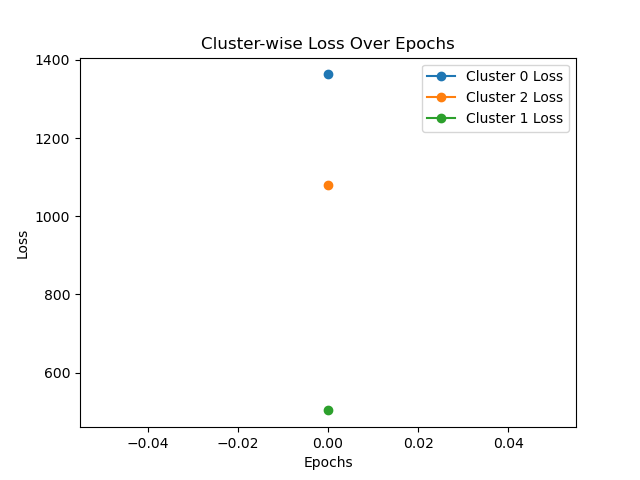
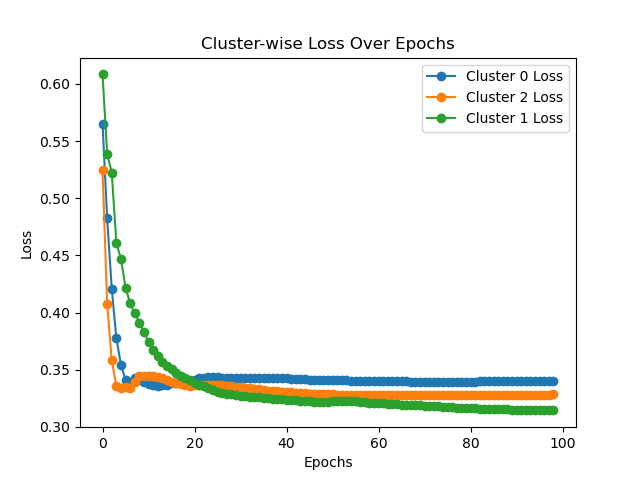
cluster analysis

diff --git a/proposed.py b/proposed.py
@@ -17,6 +17,7 @@ import random
 from argparse import Namespace
 import matplotlib.pyplot as plt
 import csv
+import pickle
 from collections import defaultdict
 
 sys.path.append('../')
@@ -71,19 +72,10 @@ if __name__ == '__main__':
     decomposed_trend, decomposed_seasonal = decompose_data(normalized_df)
     trend_labels, n_trend_clusters = get_cluster_id(decomposed_trend, args.n_cluster_t)
     seasonal_labels, n_seasonal_clusters = get_cluster_id(decomposed_seasonal, args.n_cluster_s)
-    #print("Cell 8319 trend_lables: ", trend_labels[8319])
-    #print("Cell 8319 seasonal_labels: ", seasonal_labels[8319])
 
     global_model = DLinear.Model(configs).to(device)
     global_model.train()
     global_weights = global_model.state_dict()
-    #global_up_trend_model = DLinear.Model(configs).to(device)
-    #global_down_trend_model = DLinear.Model(configs).to(device)
-    
-
-    # Save their state_dicts
-    #global_up_trend_model_dict = global_up_trend_model.state_dict()
-    #global_down_trend_model_dict = global_down_trend_model.state_dict()
 
     print("Global Model: ", global_model )
     last_train_data = df.iloc[-configs.seq_len:].copy()
@@ -103,9 +95,20 @@ if __name__ == '__main__':
     seasonal_cluster_weights = defaultdict(lambda: global_weights['Linear_Seasonal.weight'])
 
     # 1. 클러스터별 손실 초기화
+    trend_cluster_losses = {cluster_id: 0 for cluster_id in trend_labels.unique()}
+    seasonal_cluster_losses = {cluster_id: 0 for cluster_id in seasonal_labels.unique()}
+
+    trend_cluster_counts = {cluster_id: 0 for cluster_id in trend_labels.unique()}
+    seasonal_cluster_counts = {cluster_id: 0 for cluster_id in seasonal_labels.unique()}
+
+
+    # 1. 확장된 클러스터별 손실 저장 구조
+    trend_cluster_loss_hist = {cluster_id: [] for cluster_id in trend_labels.unique()}
+    seasonal_cluster_loss_hist = {cluster_id: [] for cluster_id in seasonal_labels.unique()}
+    
     cluster_losses = {cluster_id: 0 for cluster_id in trend_labels.unique()}
     cluster_counts = {cluster_id: 0 for cluster_id in trend_labels.unique()}
-
+    
     print("____________Training Start____________")
     for epoch in tqdm.tqdm(range(args.epochs)):
         m = max(int(args.frac * args.bs), 1)
@@ -115,30 +118,41 @@ if __name__ == '__main__':
         print(f'\n | Global Training Round: {epoch+1} |\n')
         global_model.train()
 
+        # 클러스터별 손실 업데이트
+        for cell, loss in cell_loss.items():
+            trend_cluster_id = trend_labels[cell]
+            seasonal_cluster_id = seasonal_labels[cell]
+            
+            trend_cluster_losses[trend_cluster_id] += loss
+            seasonal_cluster_losses[seasonal_cluster_id] += loss
+            trend_cluster_counts[trend_cluster_id] += 1
+            seasonal_cluster_counts[seasonal_cluster_id] += 1
+
         # 이전 라운드의 각 클러스터별 평균 손실 출력
         if epoch > 0:
-            for cluster_id, total_loss in cluster_losses.items():
-                avg_loss = total_loss / (cluster_counts[cluster_id] if cluster_counts[cluster_id] != 0 else 1)  # 분모가 0이 되는 것을 방지
-                print(f"Cluster {cluster_id} Average Loss in Round {epoch}: {avg_loss:.4f}")
+            for cluster_id, total_loss in trend_cluster_losses.items():
+                avg_loss = total_loss / (trend_cluster_counts[cluster_id] if trend_cluster_counts[cluster_id] != 0 else 1)
+                print(f"Trend Cluster {cluster_id} Average Loss in Round {epoch}: {avg_loss:.4f}")
+                trend_cluster_loss_hist[cluster_id].append(avg_loss)
+                
+            for cluster_id, total_loss in seasonal_cluster_losses.items():
+                avg_loss = total_loss / (seasonal_cluster_counts[cluster_id] if seasonal_cluster_counts[cluster_id] != 0 else 1)
+                print(f"Seasonal Cluster {cluster_id} Average Loss in Round {epoch}: {avg_loss:.4f}")
+                seasonal_cluster_loss_hist[cluster_id].append(avg_loss)
 
-        # 1. 클러스터별 손실 업데이트
-        for cell, loss in cell_loss.items():
-            cluster_id = trend_labels[cell]
-            cluster_losses[cluster_id] += loss
-            cluster_counts[cluster_id] += 1
-
-        all_clusters_have_values = all(v != 0 for v in cluster_losses.values())
+        # 'trend_labels' 기반의 클러스터 샘플링
+        all_clusters_have_values = all(v != 0 for v in trend_cluster_losses.values())
         if all_clusters_have_values:
             # 클러스터별 손실을 기반으로 샘플링 확률 계산
-            total_loss = sum(cluster_losses.values())
-            sampling_probabilities = {cluster_id: loss / total_loss for cluster_id, loss in cluster_losses.items()}
+            total_loss = sum(trend_cluster_losses.values())
+            sampling_probabilities = {cluster_id: loss / total_loss for cluster_id, loss in trend_cluster_losses.items()}
 
             sampled_cells = []
-            cluster_sampling_counts = {cluster_id: 0 for cluster_id in cluster_losses.keys()}  # 클러스터별 샘플링 횟수를 저장
+            cluster_sampling_counts = {cluster_id: 0 for cluster_id in trend_cluster_losses.keys()}  # 클러스터별 샘플링 횟수를 저장
 
             while len(sampled_cells) < 10:
                 # 확률에 따라 클러스터 하나를 선택합니다.
-                selected_cluster = np.random.choice(list(cluster_losses.keys()), p=list(sampling_probabilities.values()))
+                selected_cluster = np.random.choice(list(trend_cluster_losses.keys()), p=list(sampling_probabilities.values()))
                 # 선택된 클러스터에서의 셀들을 가져옵니다.
                 cells_in_cluster = [cell for cell in selected_cells if trend_labels[cell] == selected_cluster]
                 
@@ -152,7 +166,7 @@ if __name__ == '__main__':
 
             # 샘플링 정보 출력
             for cluster_id, count in cluster_sampling_counts.items():
-                print(f"Cluster {cluster_id} sampled {count} times.")
+                print(f"Trend Cluster {cluster_id} sampled {count} times.")
         else:
             # 랜덤 샘플링
             sampled_cells = random.sample(selected_cells, m)
@@ -200,16 +214,45 @@ if __name__ == '__main__':
 
         for id in local_seasonal_weights.keys():
             seasonal_cluster_weights[id] = average_tensors(local_seasonal_weights[id])
+    '''
 
-    for cluster_id, losses in cluster_losses.items():
-        plt.plot(losses, '-o', label=f'Cluster {cluster_id} Loss')
-        
-    plt.title('Cluster-wise Loss Over Epochs')
+
+    # Trend Cluster의 손실 그래프
+    plt.figure(figsize=(12, 6))
+    for cluster_id, losses in trend_cluster_loss_hist.items():
+        plt.plot(losses, '-o', label=f'Trend Cluster {cluster_id} Loss', linestyle='-', linewidth=2.0)
+
+    plt.title('Trend Cluster-wise Loss Over Epochs')
     plt.xlabel('Epochs')
     plt.ylabel('Loss')
     plt.legend()
-    plt.savefig('clusterwise_loss.png')
+    plt.grid(True, which="both", ls="--", c='0.7')
+    plt.tight_layout()
+    plt.savefig('trend_clusterwise_loss.png')
     plt.show()
+
+    # Seasonal Cluster의 손실 그래프
+    plt.figure(figsize=(12, 6))
+    for cluster_id, losses in seasonal_cluster_loss_hist.items():
+        plt.plot(losses, '-o', label=f'Seasonal Cluster {cluster_id} Loss', linestyle='-', linewidth=2.0)
+
+    plt.title('Seasonal Cluster-wise Loss Over Epochs')
+    plt.xlabel('Epochs')
+    plt.ylabel('Loss')
+    plt.legend()
+    plt.grid(True, which="both", ls="--", c='0.7')
+    plt.tight_layout()
+    plt.savefig('seasonal_clusterwise_loss.png')
+    plt.show()
+    '''
+
+    # 데이터 저장
+    with open('trend_cluster_loss_hist.pkl', 'wb') as f:
+        pickle.dump(trend_cluster_loss_hist, f)
+
+    with open('seasonal_cluster_loss_hist.pkl', 'wb') as f:
+        pickle.dump(seasonal_cluster_loss_hist, f)
+
     # Test model accuracy
     pred, truth = {}, {}
     test_loss_list = []
